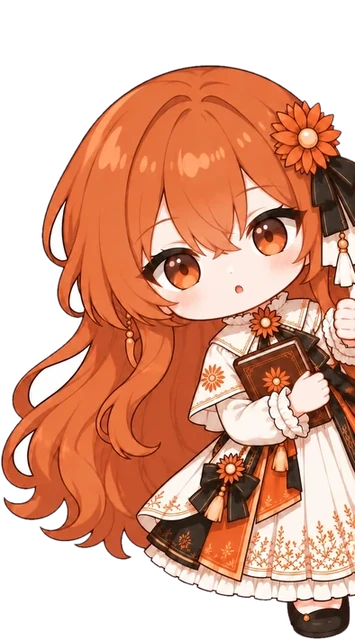
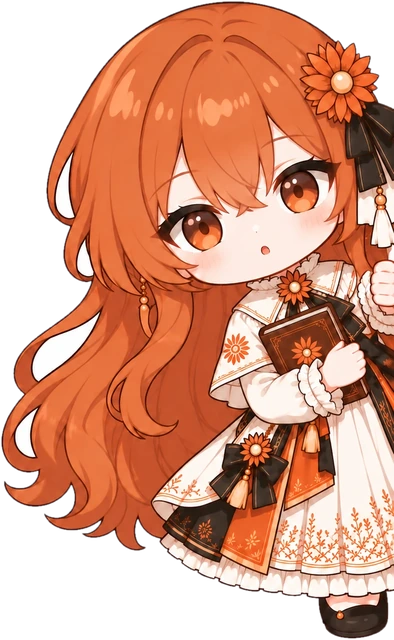
贴边换图不再挪窗口：有贴边立绘时立绘贴着窗口那条边放，切口固定在窗口边 = 屏幕边缘，贴边 / 探出来原地淡入淡出（之前窗口边滑边换图，旧图的切口被带离边缘露出白边）；缩着时不晃；探出来只看露出来那截（hitRects 用立绘实际范围）；Claude / GPT 探出来恢复原尺寸

diff --git a/app/web/index.html b/app/web/index.html
@@ -50,6 +50,14 @@ html.aura-off #aura, html.aura-off .aura-rings { display: none; }
 #more.on { opacity: 1; }
 /* 贴边：缩在屏幕边上时只露半个身子（扒着边缘的立绘，没画时用平常的），额度、名牌、气泡、特效都藏起来 */
 html.tucked #bubble, html.tucked #caption, html.tucked #quota, html.tucked #fx, html.tucked #cards, html.tucked #aura, html.tucked #shadow { visibility: hidden; }
+/* 有贴边立绘时：立绘贴着窗口那条边放，切口就是窗口的边、也就是屏幕边缘。贴边 / 探出来两张换图时窗口不用动，原地淡入淡出 */
+html.tucked-art.tucked-left #wrap { align-items: flex-start; }
+html.tucked-art.tucked-right #wrap { align-items: flex-end; }
+html.tucked-art #body { left: 0; width: 100%; }
+html.tucked-art #body img { left: 0; width: 100%; }
+html.tucked-art.tucked-left #body img { object-position: 0% 100%; }
+html.tucked-art.tucked-right #body img { object-position: 100% 100%; }
+html.tucked-art #body { animation: none !important; transform: none !important; }
 #fx.hide { opacity: 0; }
 #fx svg { width: 100%; height: 100%; overflow: visible; }
 #poof { position: absolute; left: 50%; top: 55%; width: 0; height: 0; pointer-events: none; }
@@ -241,6 +249,10 @@ function setAuraMode(mode) {
 // 点到后面的窗口（窗口比桌宠大，是给动作、气泡留的空间）
 function hitRects() {
   const out = []
+  if (tucked) {   // 缩在边上：只有露出来的那截能点 / 能让她探出来
+    const b = shownRect()
+    return JSON.stringify(b ? [[b.left - 4, b.top - 4, b.width + 8, b.height + 8].map(Math.round)] : [])
+  }
   for (const id of ['body', 'bubble', 'caption', 'quota']) {
     const el = $(id)
     if (!el || (id === 'bubble' && el.classList.contains('hide'))) continue
@@ -466,17 +478,27 @@ function setTucked(side, peek = false) {
   if (side === tucked && !!peek === tuckedPeek) return
   const was = tucked
   tucked = side; tuckedPeek = !!side && !!peek
-  document.documentElement.classList.toggle('tucked', !!side)
+  const cl = document.documentElement.classList
+  cl.toggle('tucked', !!side)
+  cl.toggle('tucked-left', side === 'left'); cl.toggle('tucked-right', side === 'right')
+  cl.toggle('tucked-art', !!side && !!char()?.poses?.[`edge_${side}`])
   clearTimeout(thinkTimer); clearTimeout(pending); clearTimeout(revertTimer)
   if (side) { say(''); setPose(`edge_${side}${tuckedPeek ? '_peek' : ''}`, true) }
   else if (was) { pose = null; show(restPose(), true) }
 }
-function dockCut(side) {
+// 正在显示的立绘实际画出来的范围（object-fit: contain，按 object-position 对齐）
+function shownRect() {
   const img = active, r = img.getBoundingClientRect(), nw = img.naturalWidth, nh = img.naturalHeight
   if (!nw || !nh) return null
-  const scale = Math.min(r.width / nw, r.height / nh), w = nw * scale, left = r.left + (r.width - w) / 2
-  if (!char()?.poses?.[`edge_${side}`]) return Math.round(left + w / 2)
-  return Math.round(side === 'left' ? left : left + w)
+  const scale = Math.min(r.width / nw, r.height / nh), w = nw * scale, h = nh * scale
+  const px = parseFloat(getComputedStyle(img).objectPosition) / 100
+  return { left: r.left + (r.width - w) * (isNaN(px) ? 0.5 : px), top: r.bottom - h, width: w, height: h }
+}
+function dockCut(side) {
+  const b = shownRect()
+  if (!b) return null
+  if (!char()?.poses?.[`edge_${side}`]) return Math.round(b.left + b.width / 2)
+  return Math.round(side === 'left' ? b.left : b.left + b.width)
 }
 
 // 刚更新完重新打开：开心一下告诉你现在是新版本（等登场招呼演完再说）

diff --git a/app/CrossPet.swift b/app/CrossPet.swift
@@ -987,9 +987,8 @@ final class App: NSObject, NSApplicationDelegate, WKNavigationDelegate {
         }
     }
     /// 缩着时鼠标移到露出来的那截上：探出来；移开 0.6 秒后缩回去
-    func updateDockHover(_ mouse: NSPoint) {
+    func updateDockHover(_ inside: Bool) {
         guard dock != nil, !dockOut else { return }
-        let inside = panel.frame.contains(mouse)
         if inside { dockLeaveAt = nil; if !dockHover { dockHover = true; applyDock() } }
         else if dockHover {
             if dockLeaveAt == nil { dockLeaveAt = Date() }
@@ -1004,8 +1003,7 @@ final class App: NSObject, NSApplicationDelegate, WKNavigationDelegate {
 
     func updateClickThrough() {
         let p = NSEvent.mouseLocation, f = panel.frame
-        updateDockHover(p)
-        guard f.contains(p) else { return }
+        guard f.contains(p) else { updateDockHover(false); return }
         if NSEvent.pressedMouseButtons != 0 { return }   // 正在拖、正在点：别中途换
         if Date().timeIntervalSince(hitRectsAt) > 0.25 {
             hitRectsAt = Date()
@@ -1019,6 +1017,7 @@ final class App: NSObject, NSApplicationDelegate, WKNavigationDelegate {
         let point = CGPoint(x: (p.x - f.minX) / zoom, y: (f.maxY - p.y) / zoom)
         let over = hitRects.isEmpty || hitRects.contains { $0.contains(point) }
         if panel.ignoresMouseEvents == over { panel.ignoresMouseEvents = !over }
+        updateDockHover(over && !hitRects.isEmpty)   // 缩着时鼠标在露出来的那截上：探出来
     }
 
     /// 降到普通层级后还排在所有普通窗口最前面、压在你正在用的窗口上：挪到前台程序最前面那个窗口的后面

diff --git a/app/windows/src/Pet.cs b/app/windows/src/Pet.cs
@@ -523,9 +523,7 @@ namespace CrossPet
         void UpdateDockHover()
         {
             if (dock == null || dockOut || hwnd == IntPtr.Zero) return;
-            Native.GetWindowRect(hwnd, out var r);
-            var p = Forms.Cursor.Position;
-            bool inside = p.X >= r.Left && p.X < r.Right && p.Y >= r.Top && p.Y < r.Bottom;
+            bool inside = hit != null && hit.IsMouseOver;   // 只算露出来的那截（能点的区域），窗口其余是透明的
             if (inside) { dockLeaveAt = null; if (!dockHover) { dockHover = true; ApplyDock(); } }
             else if (dockHover)
             {

diff --git a/docs/prompts/贴边/06-探出来.md b/docs/prompts/贴边/06-探出来.md
@@ -6,8 +6,6 @@
 1. 附件：`characters/<角色>/raw/edge_left.png`，贴下面的通用段落 + 文件名 `edge_left_peek.png` + 她自己那一行。
 2. 附件：`characters/<角色>/raw/edge_right.png`，同样的段落，文件名改成 `edge_right_peek.png`，把段落里的 LEFT 换成 RIGHT。
 
-导入后和贴边图并排比一下头的大小（切换时不能突然变大）：这批 Claude 两张、GPT 右边那张画大了约 10%，prepare 之后又缩到 0.9（画布高度不变、上面补透明）。重新导入时记得再缩。
-
 导入时文件名用下划线：`edge_left_peek`、`edge_right_peek`（`SKIP_EDGE=left` / `right`，GPT 加 `BG_MIN=250 BG_SPREAD=6`）。
 
 ```
